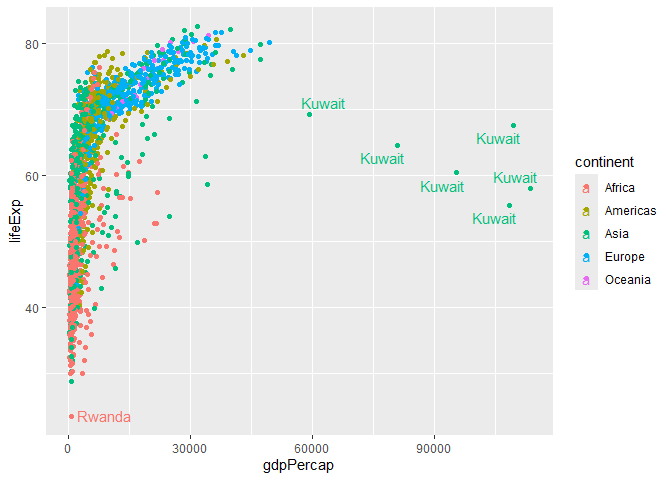
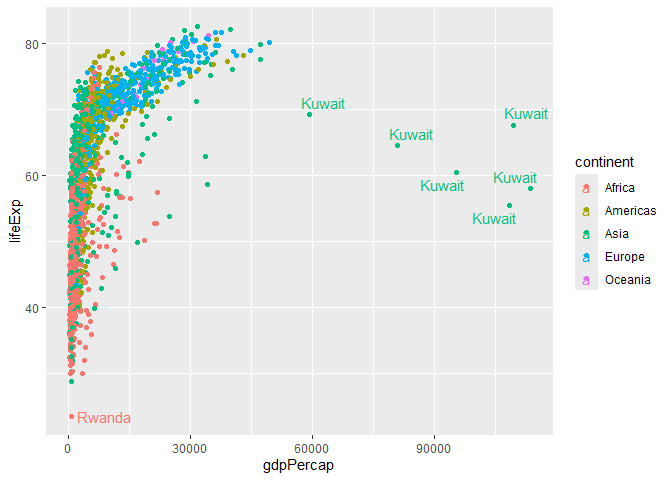
gfm format

diff --git a/class07/class07.md b/class07/class07.md
@@ -1,0 +1,354 @@
+# Class 7: Machine Learning 1
+Berne Chu (A18608434)
+
+Today we will explore some fundamental machine learning methods
+including clustering and dimensionality reduction.
+
+## K-means clustering
+
+To see how this works let’s first makeup some data to cluster where we
+know what the answer should be. We can use the `rnorm()` function to
+help here:
+
+``` r
+hist(rnorm(500, mean=5))
+```
+
+![](class07_files/figure-commonmark/unnamed-chunk-1-1.png)
+
+``` r
+x <- c(rnorm(30,mean=-3),rnorm(30,mean=3))
+y <- rev(x)
+```
+
+``` r
+x <- cbind(x,y)
+plot(x)
+```
+
+![](class07_files/figure-commonmark/unnamed-chunk-3-1.png)
+
+The function of K-means clustering in “base” R is `kmeans()`
+
+``` r
+k <- kmeans(x, centers=2)
+k
+```
+
+    K-means clustering with 2 clusters of sizes 30, 30
+
+    Cluster means:
+              x         y
+    1  3.019879 -3.064022
+    2 -3.064022  3.019879
+
+    Clustering vector:
+     [1] 2 2 2 2 2 2 2 2 2 2 2 2 2 2 2 2 2 2 2 2 2 2 2 2 2 2 2 2 2 2 1 1 1 1 1 1 1 1
+    [39] 1 1 1 1 1 1 1 1 1 1 1 1 1 1 1 1 1 1 1 1 1 1
+
+    Within cluster sum of squares by cluster:
+    [1] 50.33197 50.33197
+     (between_SS / total_SS =  91.7 %)
+
+    Available components:
+
+    [1] "cluster"      "centers"      "totss"        "withinss"     "tot.withinss"
+    [6] "betweenss"    "size"         "iter"         "ifault"      
+
+To get at the results of the returned list object we can use the dollar
+`$` syntax
+
+> Q. How many points are in each cluster
+
+``` r
+k$size
+```
+
+    [1] 30 30
+
+> Q. What ‘component’ of your result object details - cluster
+> assignment/membership? - cluster center?
+
+``` r
+k$cluster
+```
+
+     [1] 2 2 2 2 2 2 2 2 2 2 2 2 2 2 2 2 2 2 2 2 2 2 2 2 2 2 2 2 2 2 1 1 1 1 1 1 1 1
+    [39] 1 1 1 1 1 1 1 1 1 1 1 1 1 1 1 1 1 1 1 1 1 1
+
+``` r
+k$centers
+```
+
+              x         y
+    1  3.019879 -3.064022
+    2 -3.064022  3.019879
+
+> Q. Make a clustering results fiture of the data colored by cluster
+> membership.
+
+``` r
+plot(x, col=k$cluster, pch=16)
+points(k$centers, col="blue", pch=15, cex=2)
+```
+
+![](class07_files/figure-commonmark/unnamed-chunk-8-1.png)
+
+K-means clustering is very popular as it is very fast and relatively
+straight forward: it takes numeric data as input and returns the cluster
+membership vector etc.
+
+The “issue” is we tell `kmeans()` how many cluster we want.
+
+> Q. Run kmeans again and cluster into 4 groups/clusters and plot the
+> result like we did above?
+
+``` r
+k4 <- kmeans(x,centers=4)
+plot(x, col=k4$cluster)
+points(k4$centers,pch=15)
+```
+
+![](class07_files/figure-commonmark/unnamed-chunk-9-1.png)
+
+Scree plot to pick k `centers` calue
+
+``` r
+k1 <- kmeans(x, center=1)
+k2 <- kmeans(x, center=2)
+k3 <- kmeans(x, center=3)
+k4 <- kmeans(x, center=4)
+k5 <- kmeans(x, center=5)
+```
+
+``` r
+z <- c(k1$tot.withinss,
+        k2$tot.withinss,
+        k3$tot.withinss,
+        k4$tot.withinss,
+        k5$tot.withinss)
+plot(z, typ="b")
+```
+
+![](class07_files/figure-commonmark/unnamed-chunk-11-1.png)
+
+``` r
+n <- NULL
+for(i in 1:5){
+  n <- c(n,kmeans(x, centers=i)$tot.withinss)
+  
+}
+plot(n, typ="b")
+```
+
+![](class07_files/figure-commonmark/unnamed-chunk-12-1.png)
+
+## Hierarchical Clustering
+
+The meain “base” R function for Hierarchical Clustering is called
+`hclust()`. Here we can’t just input our data we need to first calculate
+a distance matrix (e.g. `dist()`) for our data and use this as input to
+`hclust()`
+
+``` r
+d <- dist(x)
+hc <- hclust(d)
+hc
+```
+
+
+    Call:
+    hclust(d = d)
+
+    Cluster method   : complete 
+    Distance         : euclidean 
+    Number of objects: 60 
+
+There is a plot method for hclust results lets try it
+
+``` r
+plot(hc)
+abline(h=8, col="red")
+```
+
+![](class07_files/figure-commonmark/unnamed-chunk-14-1.png)
+
+To get our cluster “membership” vector (i/e our main clustering result)
+we can “cut” the tree at a given height or at a height that yields a
+given “k” group
+
+``` r
+cutree(hc, h=8)
+```
+
+     [1] 1 1 1 1 1 1 1 1 1 1 1 1 1 1 1 1 1 1 1 1 1 1 1 1 1 1 1 1 1 1 2 2 2 2 2 2 2 2
+    [39] 2 2 2 2 2 2 2 2 2 2 2 2 2 2 2 2 2 2 2 2 2 2
+
+``` r
+grps <- cutree(hc,k=2)
+```
+
+> Q. Plot the data with our hclust result coloring
+
+``` r
+plot(x, col=grps)
+```
+
+![](class07_files/figure-commonmark/unnamed-chunk-17-1.png)
+
+# Principal Component Analysis (PCA)
+
+## PCA of UK food data
+
+Import food data from an online CSV file:
+
+``` r
+url <- "https://tinyurl.com/UK-foods"
+x <- read.csv(url)
+head(x)
+```
+
+                   X England Wales Scotland N.Ireland
+    1         Cheese     105   103      103        66
+    2  Carcass_meat      245   227      242       267
+    3    Other_meat      685   803      750       586
+    4           Fish     147   160      122        93
+    5 Fats_and_oils      193   235      184       209
+    6         Sugars     156   175      147       139
+
+``` r
+rownames(x) <- x[,1]
+x <- x[,-1]
+x
+```
+
+                        England Wales Scotland N.Ireland
+    Cheese                  105   103      103        66
+    Carcass_meat            245   227      242       267
+    Other_meat              685   803      750       586
+    Fish                    147   160      122        93
+    Fats_and_oils           193   235      184       209
+    Sugars                  156   175      147       139
+    Fresh_potatoes          720   874      566      1033
+    Fresh_Veg               253   265      171       143
+    Other_Veg               488   570      418       355
+    Processed_potatoes      198   203      220       187
+    Processed_Veg           360   365      337       334
+    Fresh_fruit            1102  1137      957       674
+    Cereals                1472  1582     1462      1494
+    Beverages                57    73       53        47
+    Soft_drinks            1374  1256     1572      1506
+    Alcoholic_drinks        375   475      458       135
+    Confectionery            54    64       62        41
+
+``` r
+x <- x <- read.csv(url, row.names=1)
+x
+```
+
+                        England Wales Scotland N.Ireland
+    Cheese                  105   103      103        66
+    Carcass_meat            245   227      242       267
+    Other_meat              685   803      750       586
+    Fish                    147   160      122        93
+    Fats_and_oils           193   235      184       209
+    Sugars                  156   175      147       139
+    Fresh_potatoes          720   874      566      1033
+    Fresh_Veg               253   265      171       143
+    Other_Veg               488   570      418       355
+    Processed_potatoes      198   203      220       187
+    Processed_Veg           360   365      337       334
+    Fresh_fruit            1102  1137      957       674
+    Cereals                1472  1582     1462      1494
+    Beverages                57    73       53        47
+    Soft_drinks            1374  1256     1572      1506
+    Alcoholic_drinks        375   475      458       135
+    Confectionery            54    64       62        41
+
+``` r
+barplot(as.matrix(x), col=rainbow(nrow(x)))
+```
+
+![](class07_files/figure-commonmark/unnamed-chunk-21-1.png)
+
+There is one plot that can be useful for small datasets:
+
+``` r
+pairs(x, col=rainbow(nrow(x)), pch=16)
+```
+
+![](class07_files/figure-commonmark/unnamed-chunk-22-1.png)
+
+> Main point: It can be difficult to spot major trends and patterns even
+> in relatively small multivariate datasets (here we only have 17
+> dimensions, typically we have 1000s).
+
+## PCA to the rescue
+
+The main function in “base” R for PCA is called `prcomp()`
+
+I will take the transpose of our data so the “foods” are in the columns:
+
+``` r
+pca <- prcomp(t(x))
+summary(pca)
+```
+
+    Importance of components:
+                                PC1      PC2      PC3       PC4
+    Standard deviation     324.1502 212.7478 73.87622 3.176e-14
+    Proportion of Variance   0.6744   0.2905  0.03503 0.000e+00
+    Cumulative Proportion    0.6744   0.9650  1.00000 1.000e+00
+
+``` r
+cols <- c("orange", "red","blue", "darkgreen")
+plot(pca$x[,1], pca$x[,2], col=cols, pch=16)
+```
+
+![](class07_files/figure-commonmark/unnamed-chunk-24-1.png)
+
+``` r
+library(ggplot2)
+```
+
+``` r
+ggplot(pca$x)+
+  aes(PC1,PC2)+
+  geom_point(col=cols)
+```
+
+![](class07_files/figure-commonmark/unnamed-chunk-26-1.png)
+
+``` r
+pca$rotation
+```
+
+                                 PC1          PC2         PC3          PC4
+    Cheese              -0.056955380  0.016012850  0.02394295 -0.694538519
+    Carcass_meat         0.047927628  0.013915823  0.06367111  0.489884628
+    Other_meat          -0.258916658 -0.015331138 -0.55384854  0.279023718
+    Fish                -0.084414983 -0.050754947  0.03906481 -0.008483145
+    Fats_and_oils       -0.005193623 -0.095388656 -0.12522257  0.076097502
+    Sugars              -0.037620983 -0.043021699 -0.03605745  0.034101334
+    Fresh_potatoes       0.401402060 -0.715017078 -0.20668248 -0.090972715
+    Fresh_Veg           -0.151849942 -0.144900268  0.21382237 -0.039901917
+    Other_Veg           -0.243593729 -0.225450923 -0.05332841  0.016719075
+    Processed_potatoes  -0.026886233  0.042850761 -0.07364902  0.030125166
+    Processed_Veg       -0.036488269 -0.045451802  0.05289191 -0.013969507
+    Fresh_fruit         -0.632640898 -0.177740743  0.40012865  0.184072217
+    Cereals             -0.047702858 -0.212599678 -0.35884921  0.191926714
+    Beverages           -0.026187756 -0.030560542 -0.04135860  0.004831876
+    Soft_drinks          0.232244140  0.555124311 -0.16942648  0.103508492
+    Alcoholic_drinks    -0.463968168  0.113536523 -0.49858320 -0.316290619
+    Confectionery       -0.029650201  0.005949921 -0.05232164  0.001847469
+
+``` r
+ggplot(pca$rotation)+
+  aes(PC1, rownames(pca$rotation))+
+  geom_col()
+```
+
+![](class07_files/figure-commonmark/unnamed-chunk-28-1.png)
+
+PCA looks super useful and we will come back to describe this further
+next day :-)
